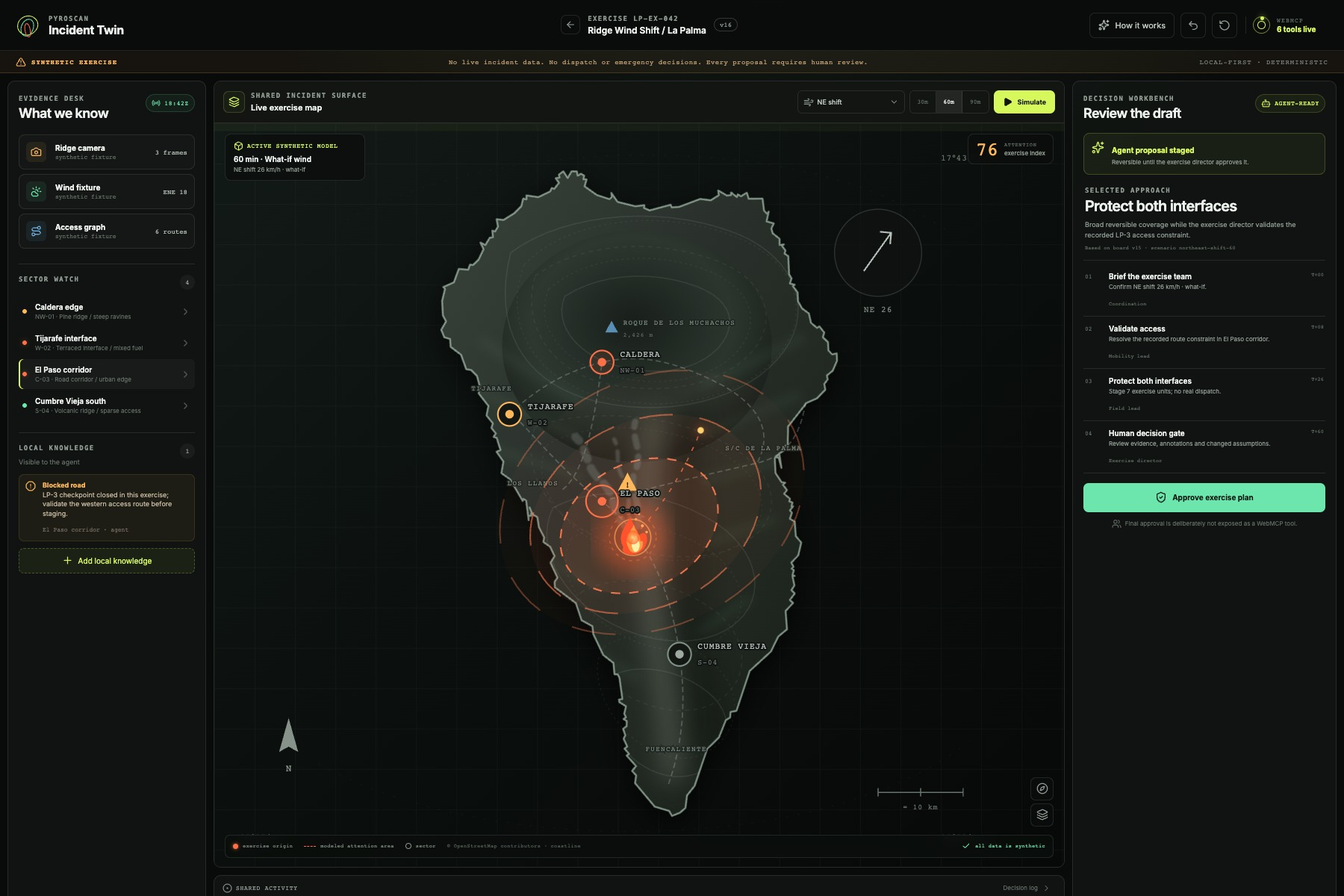
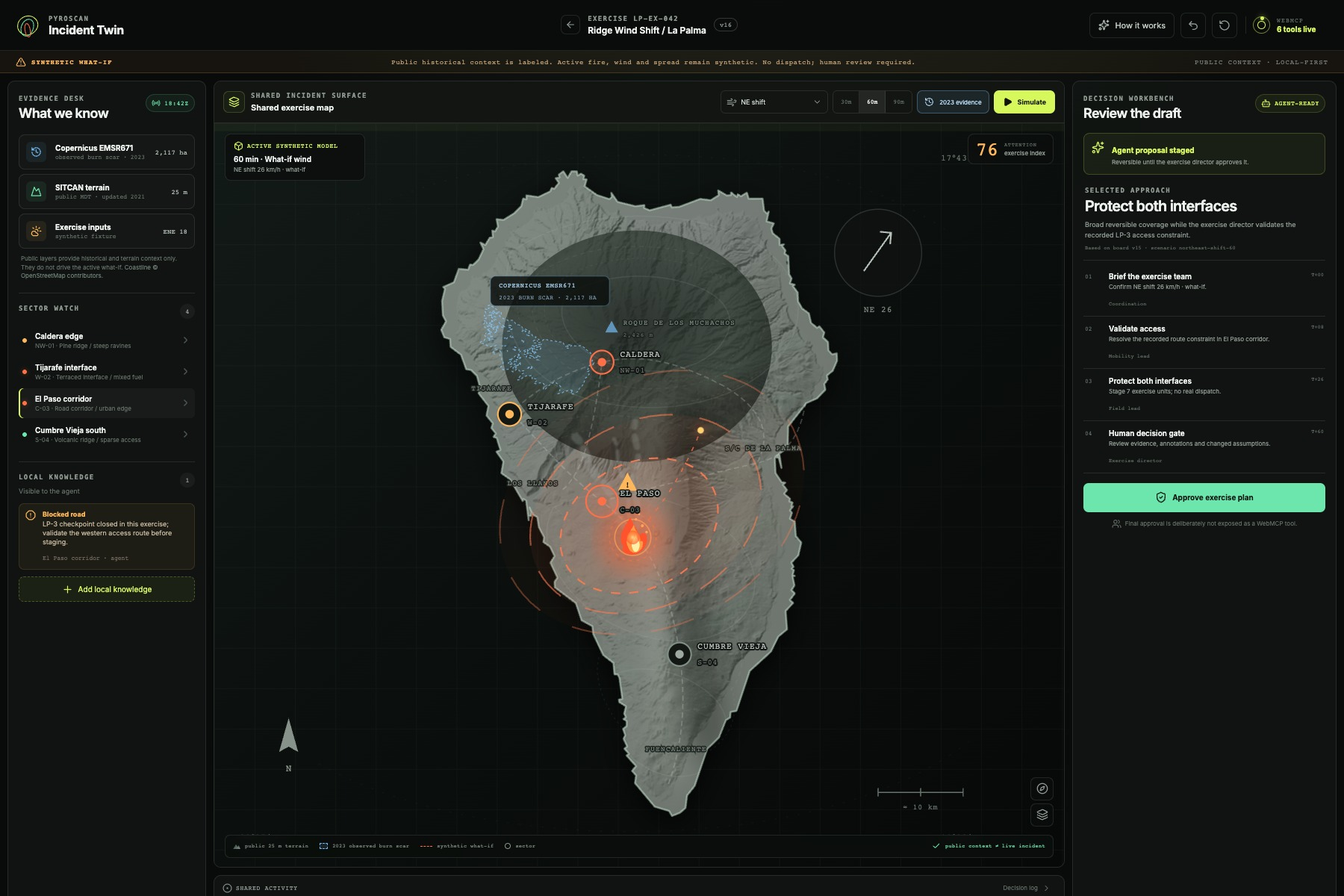
docs: refresh submission proof with public context

diff --git a/videos/pyroscan-challenge-film/compositions/frames/03-one-shared-twin.html b/videos/pyroscan-challenge-film/compositions/frames/03-one-shared-twin.html
@@ -29,7 +29,7 @@
       
       <div data-hf-id="hf-05by" class="f03-one-shared-twin-chrome"><span data-hf-id="hf-6r6f" class="f03-one-shared-twin-eyebrow">PYROSCAN // INCIDENT TWIN</span><span data-hf-id="hf-t40e" class="f03-one-shared-twin-mono">ONE SHARED SURFACE</span></div>
       <div data-hf-id="hf-ufmu" class="f03-one-shared-twin-viewport f03-one-shared-twin-screen"><img data-hf-id="hf-zvjz" src="assets/01-how-it-works.png" alt="PyroScan shared incident surface"></div>
-      <div data-hf-id="hf-8dka" class="f03-one-shared-twin-label"><b data-hf-id="hf-tp5t">LA PALMA</b><span data-hf-id="hf-289q">SYNTHETIC EXERCISE</span></div>
+      <div data-hf-id="hf-8dka" class="f03-one-shared-twin-label"><b data-hf-id="hf-tp5t">LA PALMA</b><span data-hf-id="hf-289q">PUBLIC CONTEXT · SYNTHETIC WHAT-IF</span></div>
       <div data-hf-id="hf-a99v" class="f03-one-shared-twin-roles"><span data-hf-id="hf-qg5m">HUMAN GROUNDS</span><i data-hf-id="hf-wt6k"></i><span data-hf-id="hf-6os0">AGENT REHEARSES</span><i data-hf-id="hf-zeb8"></i><span data-hf-id="hf-amc7">HUMAN DECIDES</span></div>
     
     </div>

diff --git a/scripts/export_submission_media.py b/scripts/export_submission_media.py
@@ -1,0 +1,119 @@
+#!/usr/bin/env python3
+"""Export reproducible Devpost and README media from verified product states."""
+
+from __future__ import annotations
+
+from pathlib import Path
+
+import numpy as np
+from PIL import Image, ImageDraw, ImageFont
+
+
+ROOT = Path(__file__).resolve().parents[1]
+STATES = ROOT / "videos" / "pyroscan-challenge-film" / "product-states"
+DOCS = ROOT / "docs" / "assets"
+FONTS = ROOT / "videos" / "pyroscan-challenge-film" / "assets" / "fonts"
+
+
+def font(name: str, size: int) -> ImageFont.FreeTypeFont:
+    return ImageFont.truetype(FONTS / name, size)
+
+
+def cover(image: Image.Image, size: tuple[int, int]) -> Image.Image:
+    ratio = max(size[0] / image.width, size[1] / image.height)
+    scaled = image.resize((round(image.width * ratio), round(image.height * ratio)), Image.Resampling.LANCZOS)
+    left = (scaled.width - size[0]) // 2
+    top = (scaled.height - size[1]) // 2
+    return scaled.crop((left, top, left + size[0], top + size[1]))
+
+
+def save_jpeg(image: Image.Image, path: Path) -> None:
+    path.parent.mkdir(parents=True, exist_ok=True)
+    image.convert("RGB").save(path, quality=92, optimize=True, progressive=True)
+
+
+def thumbnail(product: Image.Image) -> Image.Image:
+    width, height = 1500, 1000
+    y, x = np.mgrid[0:height, 0:width]
+    glow = np.exp(-(((x - 1230) / 510) ** 2 + ((y - 130) / 390) ** 2))
+    fire = np.exp(-(((x - 1180) / 520) ** 2 + ((y - 930) / 270) ** 2))
+    pixels = np.zeros((height, width, 3), dtype=np.uint8)
+    pixels[..., 0] = np.clip(7 + glow * 11 + fire * 19, 0, 255)
+    pixels[..., 1] = np.clip(10 + glow * 25 + fire * 7, 0, 255)
+    pixels[..., 2] = np.clip(8 + glow * 17 + fire * 3, 0, 255)
+    canvas = Image.fromarray(pixels, "RGB")
+
+    screen = cover(product.convert("RGB"), (1040, 694))
+    screen_layer = Image.new("RGBA", canvas.size, (0, 0, 0, 0))
+    screen_layer.paste(screen, (460, 145))
+    shade = Image.new("L", canvas.size, 0)
+    shade_draw = ImageDraw.Draw(shade)
+    shade_draw.rectangle((460, 145, 1499, 839), fill=255)
+    screen_layer.putalpha(shade)
+    canvas = Image.alpha_composite(canvas.convert("RGBA"), screen_layer)
+
+    overlay = Image.new("RGBA", canvas.size, (0, 0, 0, 0))
+    draw = ImageDraw.Draw(overlay)
+    draw.rectangle((0, 0, 885, height), fill=(6, 9, 7, 224))
+    for index in range(0, width, 110):
+        draw.line((index, 0, index, height), fill=(190, 220, 198, 8), width=1)
+    for index in range(0, height, 110):
+        draw.line((0, index, width, index), fill=(190, 220, 198, 8), width=1)
+    canvas = Image.alpha_composite(canvas, overlay)
+    draw = ImageDraw.Draw(canvas)
+
+    # Original PyroScan ring mark.
+    draw.ellipse((72, 54, 110, 92), outline=(215, 248, 93), width=3)
+    draw.ellipse((86, 58, 119, 91), outline=(109, 230, 173), width=2)
+    draw.ellipse((93, 62, 112, 87), outline=(255, 112, 72), width=2)
+    draw.text((132, 56), "PYROSCAN", font=font("Inter-Bold.ttf", 26), fill=(239, 243, 239))
+    draw.text((132, 87), "INCIDENT TWIN", font=font("Inter-Medium.ttf", 14), fill=(125, 138, 129))
+
+    draw.text((72, 225), "OPENAI WEBMCP CHALLENGE", font=font("Inter-SemiBold.ttf", 17), fill=(215, 248, 93))
+    draw.multiline_text(
+        (72, 290),
+        "Wildfire readiness,\nrehearsed together.",
+        font=font("Inter-Bold.ttf", 67),
+        fill=(245, 247, 245),
+        spacing=10,
+    )
+    draw.multiline_text(
+        (76, 500),
+        "Public terrain and historical evidence.\nA synthetic what-if. One human decision gate.",
+        font=font("Inter-Regular.ttf", 23),
+        fill=(180, 192, 183),
+        spacing=12,
+    )
+    draw.line((76, 630, 540, 630), fill=(215, 248, 93), width=2)
+    for left, number, label in ((76, "6", "WEBMCP TOOLS"), (230, "25 m", "PUBLIC TERRAIN"), (440, "1", "HUMAN GATE")):
+        draw.text((left, 666), number, font=font("Inter-Medium.ttf", 33), fill=(239, 243, 239))
+        draw.text((left, 710), label, font=font("Inter-Medium.ttf", 11), fill=(113, 125, 116))
+
+    draw.rounded_rectangle((72, 872, 610, 936), radius=32, fill=(23, 20, 13, 235), outline=(255, 183, 92), width=1)
+    draw.text((100, 893), "PUBLIC CONTEXT · SYNTHETIC WHAT-IF", font=font("Inter-SemiBold.ttf", 15), fill=(255, 198, 124))
+    return canvas.convert("RGB")
+
+
+def main() -> None:
+    images = {path.name: Image.open(path).convert("RGB") for path in sorted(STATES.glob("0*.png"))}
+    if len(images) != 6:
+        raise SystemExit("Run scripts/capture_demo_states.py first; six product-state PNGs are required.")
+
+    save_jpeg(images["01-how-it-works.png"], DOCS / "pyroscan-incident-twin.jpg")
+    save_jpeg(cover(images["01-how-it-works.png"], (1800, 1012)), DOCS / "devpost-hero-16x9.jpg")
+    save_jpeg(thumbnail(images["06-staged-plan.png"]), DOCS / "devpost-thumbnail-3x2.jpg")
+
+    gallery = {
+        "01-shared-rehearsal-3x2.jpg": "01-how-it-works.png",
+        "02-local-knowledge-3x2.jpg": "03-human-context.png",
+        "03-webmcp-comparison-3x2.jpg": "05-compare-options.png",
+        "04-human-review-3x2.jpg": "06-staged-plan.png",
+    }
+    for output, source in gallery.items():
+        save_jpeg(images[source], DOCS / "gallery" / output)
+
+    print("Exported README, hero, thumbnail and four gallery images from verified product states.")
+
+
+if __name__ == "__main__":
+    main()

diff --git a/scripts/capture_demo_states.py b/scripts/capture_demo_states.py
@@ -9,15 +9,17 @@ from __future__ import annotations
 
 import asyncio
 import json
+import os
 from pathlib import Path
 
 from playwright.async_api import async_playwright
+from PIL import Image, ImageDraw
 
 
 ROOT = Path(__file__).resolve().parents[1]
 OUTPUT = ROOT / "videos" / "pyroscan-challenge-film" / "product-states"
 CHROME = Path.home() / "Library/Caches/ms-playwright/chromium-1234/chrome-mac-arm64/Google Chrome for Testing.app/Contents/MacOS/Google Chrome for Testing"
-URL = "http://127.0.0.1:4174/"
+URL = os.environ.get("PYROSCAN_CAPTURE_URL", "http://127.0.0.1:4174/")
 
 POLYFILL = """
 window.__pyroTools = {};
@@ -45,6 +47,19 @@ async def invoke(page, name: str, arguments: dict) -> dict:
 
 async def shot(page, filename: str) -> None:
     await page.screenshot(path=OUTPUT / filename, animations="disabled")
+
+
+def build_contact_sheet() -> None:
+    files = sorted(OUTPUT.glob("0*.png"))
+    sheet = Image.new("RGB", (1200, 1290), "#090b0a")
+    for index, path in enumerate(files):
+        image = Image.open(path).convert("RGB")
+        image.thumbnail((600, 400), Image.Resampling.LANCZOS)
+        tile = Image.new("RGB", (600, 430), "#0b0e0c")
+        tile.paste(image, ((600 - image.width) // 2, 0))
+        ImageDraw.Draw(tile).text((14, 405), path.name, fill="#d7f85d")
+        sheet.paste(tile, ((index % 2) * 600, (index // 2) * 430))
+    sheet.save(OUTPUT / "contact-sheet.jpg", quality=90, optimize=True)
 
 
 async def main() -> None:
@@ -103,6 +118,7 @@ async def main() -> None:
 
         (OUTPUT / "tool-transcript.json").write_text(json.dumps(transcript, indent=2), encoding="utf-8")
         await browser.close()
+    build_contact_sheet()
 
 
 if __name__ == "__main__":

diff --git a/videos/pyroscan-challenge-film/scripts/build_frames.py b/videos/pyroscan-challenge-film/scripts/build_frames.py
@@ -155,7 +155,7 @@ FRAMES["03-one-shared-twin"] = frame(
     """
       <div class="03-one-shared-twin-chrome"><span class="03-one-shared-twin-eyebrow">PYROSCAN // INCIDENT TWIN</span><span class="03-one-shared-twin-mono">ONE SHARED SURFACE</span></div>
       <div class="03-one-shared-twin-viewport 03-one-shared-twin-screen"><img src="assets/01-how-it-works.png" alt="PyroScan shared incident surface" /></div>
-      <div class="03-one-shared-twin-label"><b>LA PALMA</b><span>SYNTHETIC EXERCISE</span></div>
+      <div class="03-one-shared-twin-label"><b>LA PALMA</b><span>PUBLIC CONTEXT · SYNTHETIC WHAT-IF</span></div>
       <div class="03-one-shared-twin-roles"><span>HUMAN GROUNDS</span><i></i><span>AGENT REHEARSES</span><i></i><span>HUMAN DECIDES</span></div>
     """,
     """

diff --git a/docs/DEVPOST_SUBMISSION.md b/docs/DEVPOST_SUBMISSION.md
@@ -18,15 +18,15 @@ PyroScan lets a human exercise director and ChatGPT inspect evidence, run synthe
 
 Wildfire readiness needs a rehearsal space before the crisis. Exercises combine sensor evidence, local knowledge, changing assumptions and high-consequence decisions. Traditional dashboards are built for human clicks, while chat assistants reason in a separate window and quickly lose the state visible on the map. We wanted a safer collaboration model: an agent can help inspect and compare, but the human keeps context, authority and the final decision.
 
-La Palma is the visual setting because its steep terrain, interfaces and limited access make the value of a shared spatial artifact immediately understandable. The submitted scenario is entirely synthetic.
+La Palma is the visual setting because its steep terrain, interfaces and limited access make the value of a shared spatial artifact immediately understandable. The product is grounded in public terrain and a historical observed burn scar, while the active incident, wind, spread, risk and response scenario remain explicitly synthetic.
 
 ## What it does
 
-PyroScan Incident Twin opens a deterministic wildfire exercise board with evidence fixtures, four sectors, the real outline of La Palma, animated fire/smoke/spread cues, modeled attention contours, local annotations, response options and an activity record.
+PyroScan Incident Twin opens a deterministic wildfire exercise board with four sectors, the real outline of La Palma, a public 25 m SITCAN/GRAFCAN terrain hillshade, the corrected Copernicus EMSR671 burn scar from the July 2023 wildfire, animated synthetic fire/smoke/spread cues, modeled attention contours, local annotations, response options and an activity record.
 
 Through six WebMCP site tools, ChatGPT can:
 
-- read the compact current board;
+- read the compact current board with separately labeled public-data provenance;
 - focus one exercise sector;
 - run a 30, 60 or 90-minute bounded wind what-if;
 - compare two or three predefined reversible response options;
@@ -37,7 +37,9 @@ Every agent action changes the same interface the human sees. Human annotations 
 
 ## How we built it
 
-The app is a static React 19, TypeScript and Vite application with no backend or API key. A Zustand vanilla store is the shared source of truth for React controls and WebMCP execute callbacks. The incident map is custom SVG with a locally embedded, simplified OpenStreetMap coastline of La Palma, so the critical demo has no tile or network dependency. A motion system renders fire, smoke, embers, wind vectors, scan passes and animated attention contours. The scenario engine is deterministic and uses a small set of synthetic fixtures.
+The app is a static React 19, TypeScript and Vite application with no backend or API key. A Zustand vanilla store is the shared source of truth for React controls and WebMCP execute callbacks. The incident map is custom SVG with three locally bundled public layers: a simplified OpenStreetMap coastline, a hillshade derived from the SITCAN/GRAFCAN 25 m terrain model, and a projected Copernicus EMSR671 corrected burn-scar geometry. The critical demo therefore has no runtime tile or network dependency. A motion system renders synthetic fire, smoke, embers, wind vectors, scan passes and animated attention contours. The scenario engine is deterministic and uses a small set of synthetic fixtures.
+
+Public context is a first-class part of the WebMCP contract: `read_incident_board` returns each source, observation date and role with `drivesSimulation: false`. The interface uses a separate blue historical layer, while the active what-if remains orange and explicitly synthetic. Exact source products, hashes, update dates and derivation steps are committed in `docs/PUBLIC_DATA_PROVENANCE.md`.
 
 The six tools are registered imperatively with `document.modelContext.registerTool` in the top-level page. Inputs use strict JSON Schemas with `additionalProperties: false`, plus independent runtime validation. Read-only and untrusted-content hints describe behavior. One AbortController owns the registration lifecycle. Tests verify registration, shared-state mutations, stale-state rejection, human-only approval and compatibility with current browser callback behavior.
 
@@ -53,6 +55,7 @@ This creates a loop that was previously awkward: the person adds local knowledge
 - Keeping every agent-driven state change synchronized with all human controls.
 - Preventing a plausible proposal from silently surviving after the human changes evidence.
 - Making synthetic provenance impossible to miss while still delivering a visually compelling demo.
+- Integrating authentic public evidence without implying that historical observations are live inputs or forecasts.
 - Supporting an experimental browser API whose runtime callback behavior is slightly looser than its current TypeScript definitions.
 
 ## Accomplishments
@@ -62,7 +65,7 @@ This creates a loop that was previously awkward: the person adds local knowledge
 - Runtime-tested Site Tools discovered and invoked in the ChatGPT/Codex built-in browser.
 - Monotonic state lineage, reversible drafts, undo and human-only approval.
 - A polished responsive workbench and open-source test suite.
-- A geographically recognizable La Palma surface with cinematic but restrained operational motion.
+- A geographically authentic La Palma surface with 25 m public terrain, a real historical Copernicus burn scar and cinematic but restrained exercise motion.
 
 ## What we learned
 
@@ -70,7 +73,7 @@ The strongest WebMCP tools are not wrappers around buttons. They expose a produc
 
 ## What's next
 
-The competition build intentionally stays synthetic and browser-only. A future research version could connect authorized exercise datasets, introduce facilitator-authored scenarios, compare team decisions across rehearsals and export after-action reports — while keeping the same human authority, provenance and stale-state safeguards.
+The competition build intentionally keeps the active scenario synthetic and browser-only. A future research version could connect authorized live or exercise datasets, introduce facilitator-authored scenarios, compare team decisions across rehearsals and export after-action reports — while keeping the same human authority, provenance and stale-state safeguards.
 
 ## Built with
 
@@ -91,7 +94,7 @@ The competition build intentionally stays synthetic and browser-only. A future r
 | Country | **Spain** |
 | Organization | Leave blank |
 | App status | **Existing** |
-| Significant WebMCP extension | **PyroScan previously existed as a broader private research concept. During the challenge period I created this separate, public browser-only product: a deterministic synthetic exercise engine, a shared human/agent incident board, six imperative WebMCP tools, exact state-lineage safeguards, a real La Palma coastline visualization, automated tests and complete open-source documentation. CHALLENGE_WORK.md and the public commit history distinguish all new competition work.** |
+| Significant WebMCP extension | **PyroScan previously existed as a broader private research concept. During the challenge period I created this separate, public browser-only product: a deterministic synthetic exercise engine, a shared human/agent incident board, six imperative WebMCP tools, exact state-lineage safeguards, locally derived public La Palma terrain and Copernicus historical wildfire context, automated tests and complete open-source documentation. CHALLENGE_WORK.md and the public commit history distinguish all new competition work.** |
 | Live URL | `https://pyroscan-incident-twin.netlify.app/` |
 | Public repo | `https://github.com/sebastianfernandezgarcia/pyroscan-incident-twin` |
 | Agent/client tested | **ChatGPT/Codex built-in browser with GPT-5.6 Sol; automated registration and integration tests.** |
@@ -113,7 +116,7 @@ If Site Tools are unavailable, confirm the current client/model supports WebMCP.
 
 ## Gallery captions
 
-1. [`docs/assets/gallery/01-shared-rehearsal-3x2.jpg`](assets/gallery/01-shared-rehearsal-3x2.jpg) — **One shared incident surface** — A real La Palma coastline, synthetic exercise evidence, modeled attention areas and decision controls remain visible to both the human and the agent.
+1. [`docs/assets/gallery/01-shared-rehearsal-3x2.jpg`](assets/gallery/01-shared-rehearsal-3x2.jpg) — **One shared incident surface** — Public 25 m La Palma terrain and the Copernicus 2023 historical burn scar sit beside the clearly separate synthetic what-if and decision controls visible to both the human and the agent.
 2. [`docs/assets/gallery/02-local-knowledge-3x2.jpg`](assets/gallery/02-local-knowledge-3x2.jpg) — **Local knowledge changes the result** — A route constraint added through WebMCP becomes visible on the board and affects later analysis.
 3. [`docs/assets/gallery/03-webmcp-comparison-3x2.jpg`](assets/gallery/03-webmcp-comparison-3x2.jpg) — **Intent-level Site Tools** — Six WebMCP tools expose the domain verbs of the product instead of brittle sequences of clicks.
 4. [`docs/assets/gallery/04-human-review-3x2.jpg`](assets/gallery/04-human-review-3x2.jpg) — **Human authority by design** — The agent can inspect, simulate, compare, annotate and stage; only the exercise director can approve.

diff --git a/docs/SUBMISSION_AUDIT.md b/docs/SUBMISSION_AUDIT.md
@@ -21,7 +21,7 @@ Deadline: **3 September 2026, 1:00 PM PDT / 9:00 PM Atlantic/Canary**
 | Pre-existing work documented | **PASS** | [`CHALLENGE_WORK.md`](../CHALLENGE_WORK.md) separates prior private PyroScan research from the new competition implementation and commit history. |
 | Video under three minutes, with audio and clear WebMCP demo | **BLOCKED** | The verified 2:48 1080p visual master, timed human-voice script, captions and deterministic mix helper are ready. Record the ten English takes, mix them, upload publicly to YouTube and paste its URL. |
 | Submission materials in English | **PASS** | App, repository, description, testing instructions, captions and narration are English. |
-| No unauthorized marks, music or media | **PASS** | Original interface and animation; no commercial music. OpenStreetMap coastline attribution is visible in-app and documented. |
+| No unauthorized marks, music or media | **PASS** | Original interface and animation; no commercial music. OpenStreetMap, Copernicus EMSR671 and SITCAN/GRAFCAN public-data attributions are visible/source-linked and documented. |
 | Devpost form completed before deadline | **BLOCKED** | Create and save a separate PyroScan draft, add the final YouTube URL, review, and submit. Do not alter the Roque Nights draft. |
 
 Official source of truth: [WebMCP Challenge rules](https://webmcp.devpost.com/rules).
@@ -31,7 +31,7 @@ Official source of truth: [WebMCP Challenge rules](https://webmcp.devpost.com/ru
 | Criterion | What the judge should see in the first 90 seconds |
 | --- | --- |
 | **WebMCP Leverage** | Intent-level tools, not click wrappers; human annotations affect later agent analysis; all effects appear on the same live map; exact `boardVersion` rejects stale proposals. |
-| **Execution** | A polished responsive product, real La Palma coastline, deterministic offline demo, six working tools, tests, visible activity lineage, reversible draft and human-only approval. |
+| **Execution** | A polished responsive product, real La Palma coastline, public 25 m terrain, an observed 2023 Copernicus burn-scar reference, deterministic offline demo, six working tools, tests, visible activity lineage, reversible draft and human-only approval. |
 | **Potential Impact** | A credible rehearsal workflow for exercise facilitators, local operators and civil-protection training teams who must test trade-offs before a live crisis. |
 | **Creativity & Ambition** | A browser becomes a shared incident twin where agent exploration and human judgment complement each other instead of replacing one another. |
 
@@ -41,7 +41,8 @@ Use these phrases:
 
 - **wildfire readiness and rehearsal**;
 - **synthetic, deterministic exercise scenario**;
-- **designed around La Palma's terrain and constrained access**;
+- **grounded in public La Palma terrain and historical Copernicus evidence**;
+- **public context is historical/geographic and does not drive the simulator**;
 - **explores decision trade-offs before a live incident**;
 - **working, open-source WebMCP prototype**.
 

diff --git a/docs/DEMO_SCRIPT.md b/docs/DEMO_SCRIPT.md
@@ -8,7 +8,7 @@ The challenge film is a cinematic HyperFrames composition rather than an unedite
 | --- | --- | --- |
 | 0:00–0:10 | Before the fire | Outcome-first prevention hook. |
 | 0:10–0:24 | Context breaks | Human knowledge, spatial evidence and AI separated. |
-| 0:24–0:40 | One shared twin | Real PyroScan surface and La Palma geography. |
+| 0:24–0:40 | One shared twin | Real PyroScan surface, public 25 m terrain and Copernicus 2023 historical burn scar. |
 | 0:40–0:58 | WebMCP protocol | Six intent-level verbs converge on the live board. |
 | 0:58–1:20 | Local knowledge | `inspect_zone` and `add_board_annotation` visibly change state. |
 | 1:20–1:40 | Bounded what-if | `simulate_spread` updates the same map; **not a forecast** stays explicit. |
@@ -31,7 +31,7 @@ The challenge film is a cinematic HyperFrames composition rather than an unedite
 - Audible English human narration and checked English captions.
 - No copyrighted music.
 - Browser header or architecture frame makes all six tools legible.
+- The product reveal distinguishes public historical/geographic context from the orange synthetic what-if.
 - The real inspect → annotate → simulate → compare → read → stage journey is visible.
 - Safety boundaries remain on screen: synthetic exercise, bounded what-if, not a forecast, no dispatch, human-only approval.
 - Upload as a public YouTube video and add the URL to Devpost.
-

diff --git a/videos/pyroscan-challenge-film/BRIEF.md b/videos/pyroscan-challenge-film/BRIEF.md
@@ -36,8 +36,8 @@ Create a cinematic but evidence-led product film for the OpenAI WebMCP Challenge
 
 ## Notes
 
-- Synthetic exercise only. Never imply a live fire, forecast, dispatch capability, government deployment, real-world prevention outcome, or live data feed.
-- No unauthorized trademarks or copyrighted music. Use only original interface visuals, attributed OpenStreetMap-derived coastline, and original/procedural audio if any.
+- Synthetic what-if only. Public terrain and the 2023 Copernicus burn scar are historical/geographic context and never imply a live fire, forecast, dispatch capability, government deployment, real-world prevention outcome, or live data feed.
+- No unauthorized trademarks or copyrighted music. Use only original interface visuals, attributed OpenStreetMap/SITCAN/Copernicus public data, and original/procedural audio if any.
 - Target 2:40 and never exceed 2:55 after the final human voiceover.
 - The final film must visibly demonstrate the working WebMCP product, not only present motion graphics.
 - Autonomous design choice: the Broadside preset was remixed onto PyroScan's dark, acid-green visual system because its declarative typography adds urgency without competing with the product screens.

diff --git a/videos/pyroscan-challenge-film/STORYBOARD.md b/videos/pyroscan-challenge-film/STORYBOARD.md
@@ -70,11 +70,11 @@ Scene 5 (12.0–14.0s): Hold the three disconnected stations and broken line as 
 - poster: 12.5s
 - transition_in: crossfade
 - scene: The real PyroScan interface pulls out from a La Palma close-up into one shared board.
-- voiceover: "PyroScan Incident Twin turns the browser into one shared rehearsal table, designed around La Palma's real geography and constrained access."
+- voiceover: "PyroScan Incident Twin turns the browser into one shared rehearsal table, grounded in La Palma's public terrain and a Copernicus-observed 2023 burn scar."
 - type: product_intro
 - persuasion: Product reveal
 - beat: one shared surface
-- asset_candidates: assets/screens/01-how-it-works.png — real board with collaboration guide and six WebMCP tools live; assets/pyroscan-mark.svg — original PyroScan mark
+- asset_candidates: assets/screens/01-how-it-works.png — real board with public terrain, Copernicus historical evidence, collaboration guide and six WebMCP tools live; assets/pyroscan-mark.svg — original PyroScan mark
 - blueprint: zoom-out-workspace-reveal (Adapt)
 - focal: assets/screens/01-how-it-works.png
 - roles: 01-how-it-works = background; pyroscan-mark = supporting

diff --git a/docs/VOICEOVER_RECORDING_GUIDE.md b/docs/VOICEOVER_RECORDING_GUIDE.md
@@ -35,7 +35,7 @@ Use three measured statements, then a firmer conclusion.
 
 ### 03 · 00:24–00:40 · Product reveal
 
-> PyroScan Incident Twin turns the browser into one shared rehearsal table, designed around La Palma's real geography and constrained access.
+> PyroScan Incident Twin turns the browser into one shared rehearsal table, grounded in La Palma's public terrain and a Copernicus-observed 2023 burn scar.
 
 Warm confidence; let **one shared rehearsal table** land.
 
@@ -84,4 +84,3 @@ Build from factual to hopeful. Pause before **PyroScan**. Finish warmly, not lou
 ## Final mix target
 
 After recording, the assembly script places the ten takes at their exact cue points, filters rumble, normalizes the combined narration to approximately **−16 LUFS / −1.5 dBTP**, and muxes it into the approved visual master. The provisional subtitle file is `videos/pyroscan-challenge-film/voiceover/PyroScan_VO_EN.srt`; its timings should be checked once the real voice is available.
-

diff --git a/docs/RELEASE_CHECKLIST.md b/docs/RELEASE_CHECKLIST.md
@@ -25,6 +25,9 @@
 
 - [x] Desktop three-pane layout verified.
 - [x] Real La Palma coastline geometry replaces the placeholder silhouette.
+- [x] Add the official SITCAN/GRAFCAN 25 m terrain hillshade with attribution and source date.
+- [x] Add the corrected Copernicus EMSR671 historical burn scar with a visible toggle and provenance.
+- [x] Expose public context to WebMCP with `drivesSimulation: false` and test the separation boundary.
 - [x] Fire, smoke, embers, scan and spread motion respect reduced-motion preferences.
 - [x] Agent scenario updates the matching human controls.
 - [x] Local annotation appears in the downstream plan.

diff --git a/videos/pyroscan-challenge-film/SCRIPT.md b/videos/pyroscan-challenge-film/SCRIPT.md
@@ -25,7 +25,7 @@
 **Time:** 24.0 – 40.0s
 **Delivery:** Warm confidence; pronounce La Palma naturally in Spanish.
 
-    PyroScan Incident Twin turns the browser into one shared rehearsal table, designed around La Palma's real geography and constrained access.
+    PyroScan Incident Twin turns the browser into one shared rehearsal table, grounded in La Palma's public terrain and a Copernicus-observed 2023 burn scar.
 
 ## Line 4 — The protocol (Frame 4)
 
